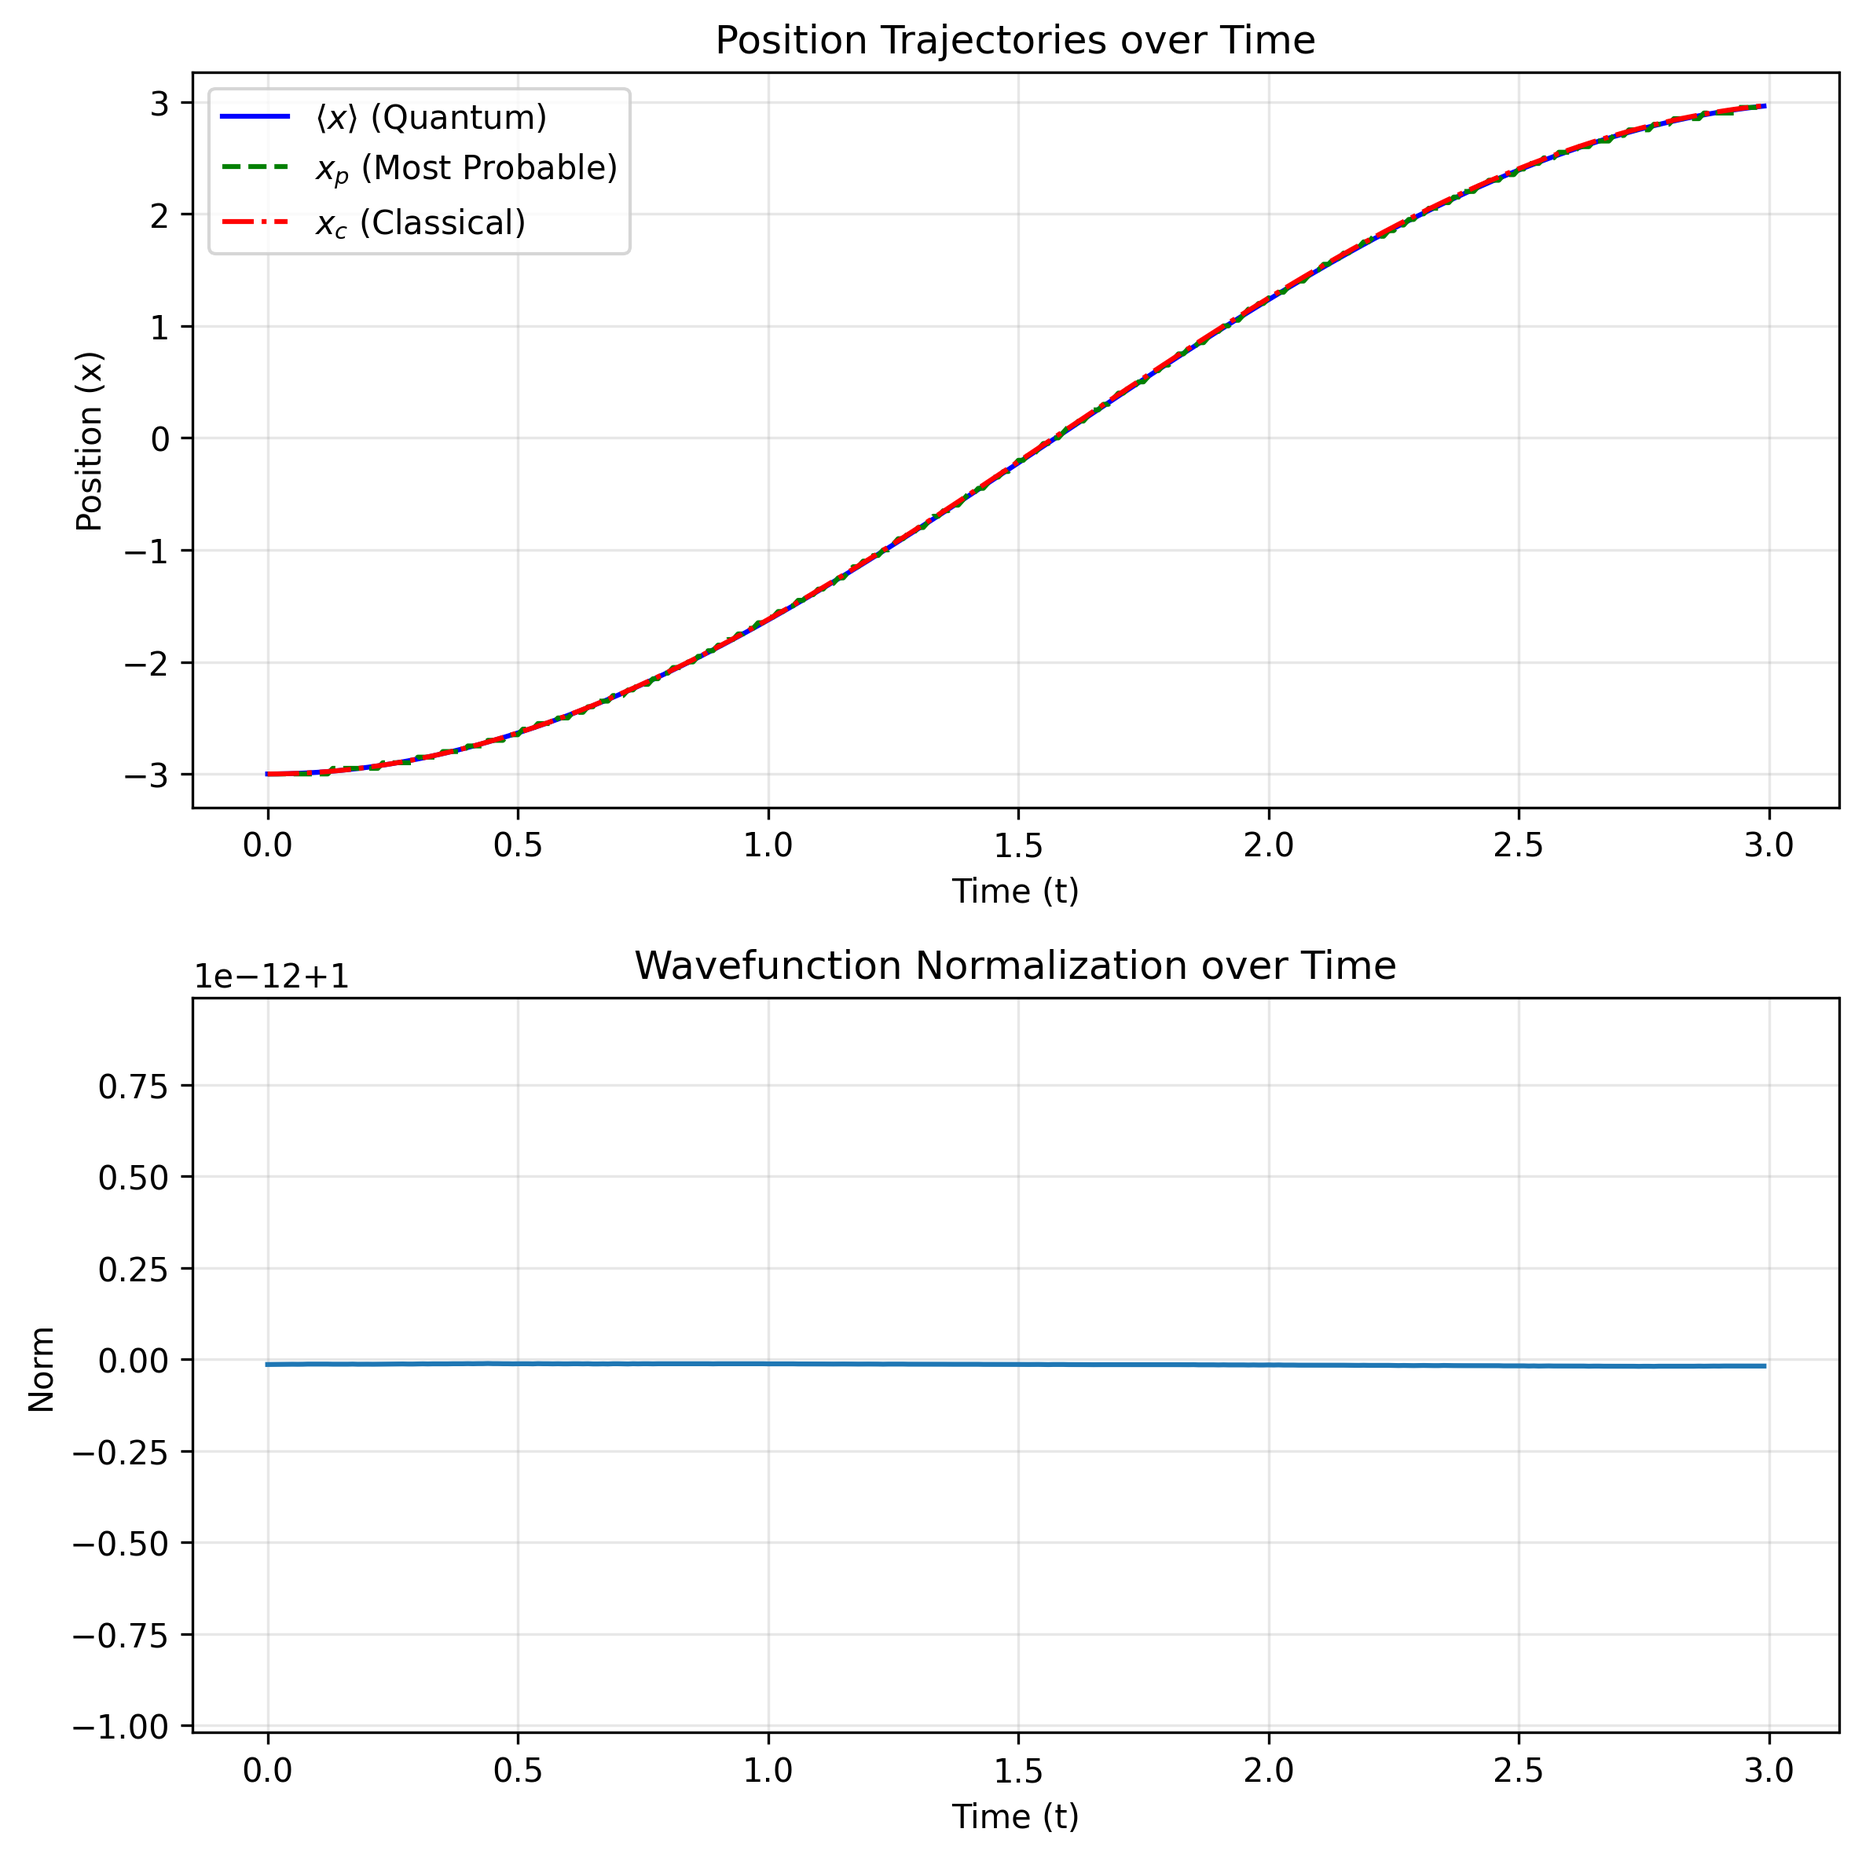
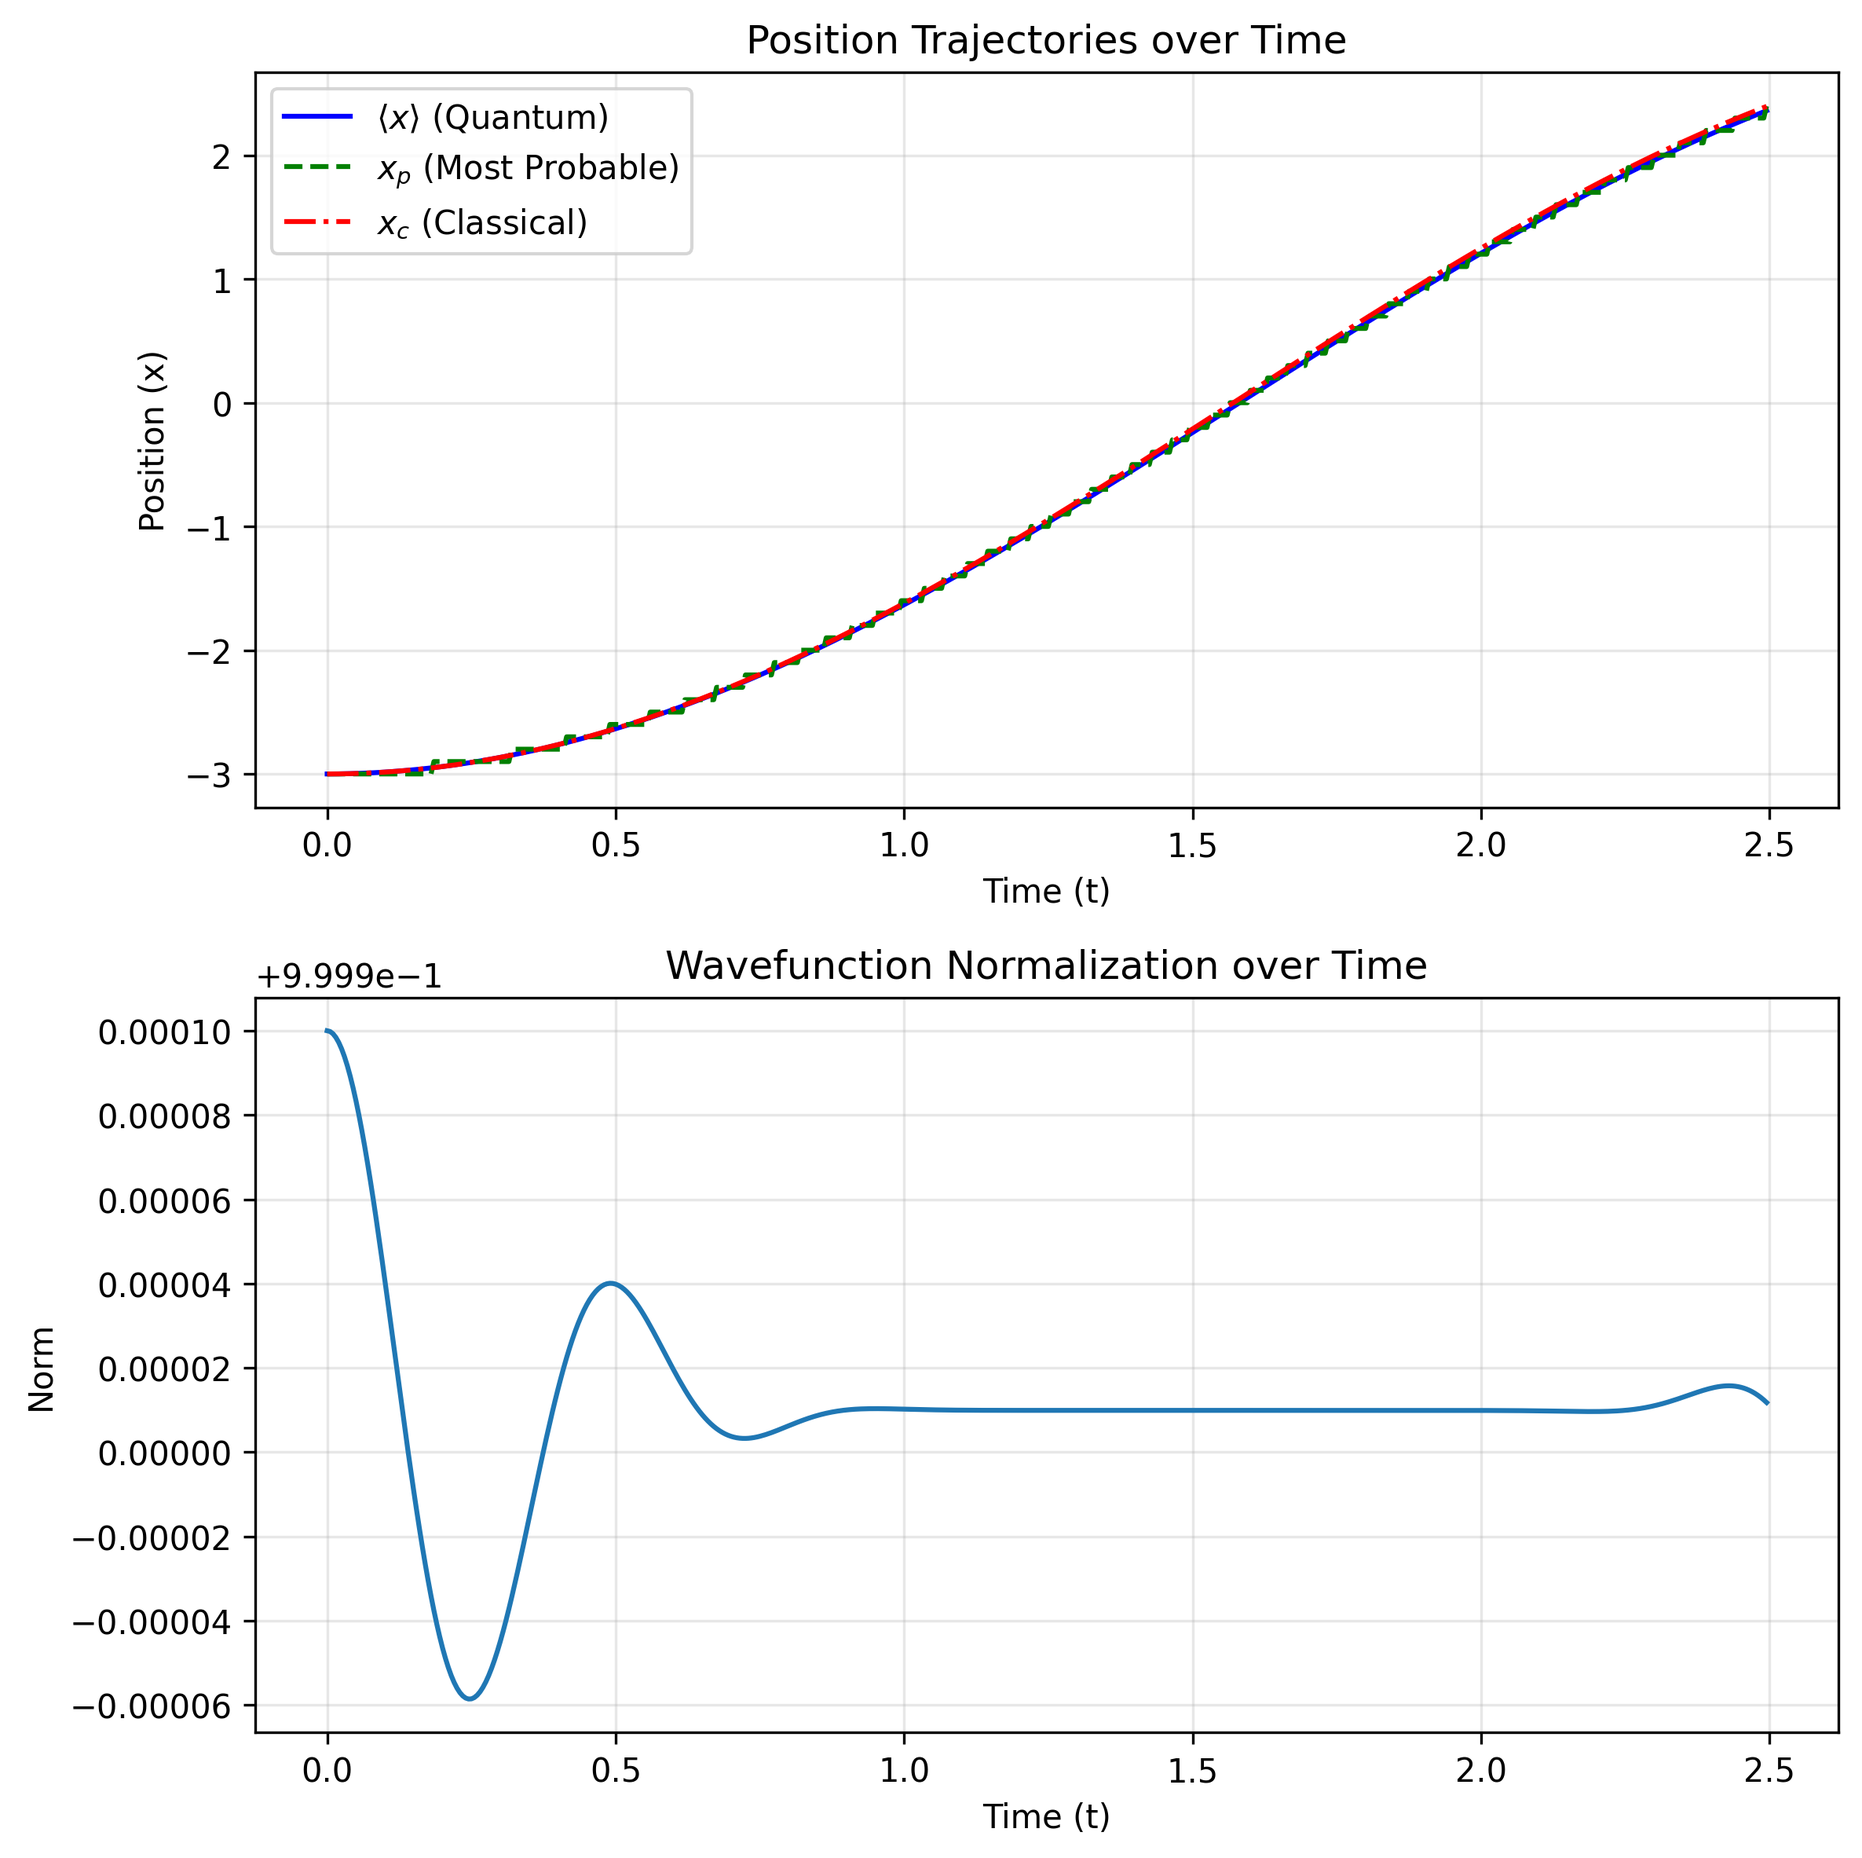
1D SDLF

diff --git a/Assignment4/CQM.py b/Assignment4/CQM.py
@@ -199,7 +199,7 @@ def phi_to_psi(k, phi, x):
     
     return psi
 
-def update_psi(psi, A_banded, B_banded, method="split-operator"):
+def update_psi(psi, A_banded, B_banded, method="split-operator", dt=0.01):
     """
     Advances the wave function by a single time step.
     Currently supports the implicit split-operator method via Crank-Nicolson.
@@ -213,12 +213,15 @@ def update_psi(psi, A_banded, B_banded, method="split-operator"):
         psi_next = solve_banded((1, 1), A_banded, RHS)
         
         return psi_next
+    elif method == "SDLF":
+        return step_sdlf(psi, A_banded, dt)
     else:
         raise ValueError(f"Method '{method}' is not implemented.")
 
 def simulate_1D(
     V_func, psi_0_func, dx, dt, x_left, x_right, frames=100, methods=["split-operator"],
-    F_func=None, x0_classical=None, p0_classical=None, show_animation=True, output_format='widget'
+    F_func=None, x0_classical=None, p0_classical=None, show_animation=True, output_format='widget',
+    animation_frame_scaling=1
     ):
     """
     Simulates the TDSE and returns a dictionary with history metrics and figures.
@@ -237,6 +240,12 @@ def simulate_1D(
                 'A': compute_matrix_A_compact(a_x),
                 'B': compute_matrix_B_compact(b_x),
                 'psi': psi_initial.copy()
+            }
+        elif method == "SDLF":
+            matrices[method] = {
+                "A":compute_F_matrix_compact(dx, V_x),
+                "B":None,
+                'psi':psi_initial.copy()
             }
 
     # --- UPDATED: Metrics Helper Function ---
@@ -257,11 +266,13 @@ def simulate_1D(
     k_init, phi_init = psi_to_phi(x, matrices[primary_method]['psi'])
     norm_x_0, norm_k_0, exp_x_0, exp_p_0, exp_H_0, x_p_0, k_p_0 = get_metrics(matrices[primary_method]['psi'], phi_init, k_init, x)
 
+    steps = frames * animation_frame_scaling
+
     # --- NEW: History and Classical Init ---
     history = {
-        't': np.zeros(frames), 'norm_x': np.zeros(frames), 'norm_k': np.zeros(frames),
-        'exp_x': np.zeros(frames), 'exp_p': np.zeros(frames), 'exp_H': np.zeros(frames),
-        'x_p': np.zeros(frames), 'k_p': np.zeros(frames), 'x_c': np.zeros(frames)
+        't': np.zeros(steps), 'norm_x': np.zeros(steps), 'norm_k': np.zeros(steps),
+        'exp_x': np.zeros(steps), 'exp_p': np.zeros(steps), 'exp_H': np.zeros(steps),
+        'x_p': np.zeros(steps), 'k_p': np.zeros(steps), 'x_c': np.zeros(steps)
     }
     
     classical_state = {
@@ -330,7 +341,9 @@ def simulate_1D(
         # 1. Advance Quantum Time Step
         if frame > 0:
             for method in methods:
-                matrices[method]['psi'] = update_psi(matrices[method]['psi'], matrices[method]['A'], matrices[method]['B'], method=method)
+                matrices[method]['psi'] = update_psi(
+                    matrices[method]['psi'], matrices[method]['A'], matrices[method]['B'], 
+                    dt=dt, method=method)
         
         psi_curr = matrices[primary_method]['psi']
         k_curr, phi_curr = psi_to_phi(x, psi_curr)
@@ -362,7 +375,8 @@ def simulate_1D(
 
     def animate(frame):
         print(f"\rProcessing frame {frame + 1}/{frames}...", end="", flush=True)
-        psi_curr, phi_curr, n_x, n_k, e_x, e_p, e_H, x_p, k_p = compute_step(frame)
+        for step in range(animation_frame_scaling-1):compute_step(frame*animation_frame_scaling + step)
+        psi_curr, phi_curr, n_x, n_k, e_x, e_p, e_H, x_p, k_p = compute_step((frame+1)*animation_frame_scaling -1)
         
         # Update plotting data
         for method in methods:
@@ -406,7 +420,8 @@ def simulate_1D(
     else:
         print("\nRunning fast simulation (no animation)...")
         for frame in range(frames):
-            compute_step(frame)
+            for step in range(animation_frame_scaling):
+                compute_step(frame*animation_frame_scaling + step)
         print("Done!")
 
     # Return Output Dictionary
@@ -456,12 +471,13 @@ def test_1D():
         V_func=harmonic_potential, 
         F_func=harmonic_force,     # <--- Passes the Force to enable classical tracking
         psi_0_func=initial_packet, 
-        dx=0.05, 
-        dt=0.01, 
+        dx=0.1, 
+        dt=0.005, 
         x_left=-10.0, 
         x_right=10.0, 
-        frames=300, 
-        methods=["split-operator"],
+        frames=500, 
+        # methods=["split-operator"],
+        methods=["SDLF","split-operator"],
         show_animation=True,
         output_format='save'       # Avoids compiling the heavy JS widget in terminal
     )
@@ -477,6 +493,54 @@ def test_1D():
     print("Saved static plot as 'static_results.png'")
 
     plt.close('all')
+
+def compute_F_matrix_compact(dx, V_x):
+    """
+    Constructs the spatial finite-difference matrix F in a 3xN compact banded format.
+    F = -H, where H is the Hamiltonian in Atomic Units.
+    """
+    N = len(V_x)
+    F = np.zeros((3, N), dtype=float)
+    
+    # Middle row (index 1): Main diagonal = -2 * (1 + V_x * dx^2)
+    F[1, :] = -2.0 * (1.0 + V_x * dx**2)
+    
+    # Top row (index 0): Upper diagonal (shifted for scipy/banded convention)
+    F[0, 1:] = 1.0
+    
+    # Bottom row (index 2): Lower diagonal (shifted for scipy/banded convention)
+    F[2, :-1] = 1.0
+    
+    # Scale entire matrix by 1 / (2 * dx^2)
+    F *= 1.0 / (2.0 * dx**2)
+    
+    return F
+
+def step_sdlf(psi, F_banded, dt):
+    """
+    Advances the wave function by one time step 'dt' using the 
+    Space Discretised Leap Frog (Position-Verlet) method.
+    Assumes `multiply_B_psi` is available in the global scope.
+    """
+    R = np.real(psi)
+    I = np.imag(psi)
+    
+    # Step 1: Advance Imaginary part by half a step
+    # dI/dt = F * R
+    F_R = multiply_B_psi(F_banded, R)
+    I_half = I + (dt / 2.0) * F_R
+    
+    # Step 2: Advance Real part by a full step using the half-step Imaginary part
+    # dR/dt = -F * I
+    F_I_half = multiply_B_psi(F_banded, I_half)
+    R_next = R - dt * F_I_half
+    
+    # Step 3: Advance Imaginary part by the remaining half step using the new Real part
+    F_R_next = multiply_B_psi(F_banded, R_next)
+    I_next = I_half + (dt / 2.0) * F_R_next
+    
+    # Combine back into complex wave function
+    return R_next + 1j * I_next
 
 
 #####################################################################################
@@ -1060,4 +1124,4 @@ def test_2D():
     fig_static.savefig("static_results_2d.png", dpi=300, bbox_inches='tight')
     print("Saved static plot as 'static_results_2d.png'")
 
-if __name__ == "__main__": test_2D()
+if __name__ == "__main__": test_1D()

diff --git a/Assignment4/Notes.md b/Assignment4/Notes.md
@@ -456,3 +456,203 @@ $$
 Using this, tri-diagonal matrices $A,B$ will be created, allowing us to do the implicit split-operator step by solving $A\psi_{\tilde t} = B \psi_0$ in $O(N)$ operations using `scipy`.
 
 For further accuracy, we can even go to a penta-diagonal matrix, using 5-point evaluation of the $\frac{\partial^2}{\partial x^2}$ operator. 
+
+## Leap-Frog like finite difference method
+
+The ATDSE is :
+
+$$
+- \frac{1}{2}\frac{\partial^2}{\partial \tilde  x^2} \psi + \tilde  V \psi= \tilde H \psi = i\frac{\partial }{\partial \tilde t}\psi
+$$
+
+Since the $\tilde H$ operator can be decomposed lineraly and maps real numbers to real numbers, we can write (after dropping the tilde) :
+
+$$
+\psi = R + iI \implies \\
+H R + i H I= i \frac{\partial }{\partial t} R - \frac{\partial }{\partial t} I \implies \\
+\frac{\partial}{\partial t} I  = H R \quad \text{and} \quad \frac{\partial}{\partial t} R = - H I
+$$
+
+On top of this, we have
+
+$$
+\int (I^2 + R^2) dx = 1
+$$
+
+When descritised, this equation becomes
+
+$$
+\sum_x (I_x^2 + R_x^2) = 1
+$$
+
+Similarly, the evolution equations are discretised in space as :
+
+$$
+\frac{\partial}{\partial t} I[x] = V[x]R[x] - \frac{1}{2}\frac{1}{\Delta x^2} (R[x+\Delta x]-2R[x]+R[x-\Delta x]) \\
+\frac{\partial}{\partial t} R[x] = -V[x]I[x] + \frac{1}{2}\frac{1}{\Delta x^2} (I[x+\Delta x]-2I[x]+I[x-\Delta x])
+$$
+
+We can rewrite the first equation as :
+
+$$
+\frac{\partial}{\partial t} I[x] = - \frac{1}{2\Delta x^2} 
+\begin{bmatrix}
+1 & -2(1 + V[x]\Delta x^2) & 1
+\end{bmatrix}
+\begin{bmatrix}
+R[x+\Delta x] \\
+R[x] \\
+R[x-\Delta x]
+\end{bmatrix}
+$$
+
+Define $f[x] = -2(1+V[x]\Delta x^2)$ and then the tri-diagonal matrix
+
+$$
+F = \frac{1}{2\Delta x^2}\begin{bmatrix}
+f[x_l] & 1 & 0 & 0 & \dots & 0 & 0  \\
+1 & f[x_l + \Delta x] & 1 & 0 & \dots & 0 & 0 \\
+0 & 1 & f[x_l + 2\Delta x] & 1 & \dots & 0 & 0 \\
+\vdots & \vdots & \vdots & \vdots & & \vdots & \vdots \\
+0 & 0 & 0  & 0 & \dots & 1 & f[x_r]
+\end{bmatrix}
+$$
+
+Now, vectorising this, with $\vec R = [R_x]_x$ and $\vec I = [I_x]_x$, we can write :
+
+$$
+\frac{\partial}{\partial t}\vec R = F \vec I\\
+\frac{\partial}{\partial t}\vec I = - F \vec R \\
+||\vec R||^2 + ||\vec I||^2 = 1
+$$
+
+This is exactly how the hamiltonian systems we have seen evolve. The third equation is similar to the net energy being constant in a classical mechanics system.
+
+So, just like before, we can use the position verlet LF integrator like so (for small step of size $t$):
+
+$$
+\vec R_{t/2} := \vec R_0 + \frac{t}{2} F \vec I_0 \\
+\vec I_{t} := \vec I_0 - t F \vec R_{t/2} \\
+\vec R_t := \vec R_{t/2} + \frac{t}{2} F\vec R_{t/2} 
+$$
+
+Effectively what is happening is that
+
+$$
+\begin{bmatrix}
+\vec R_{t/2} \\
+\vec I_{t/2}
+\end{bmatrix} = 
+\begin{bmatrix}
+\textbf{I}_N & \frac{t}{2} \textbf{F}\\
+\textbf{0}_N & \textbf{I}_N
+\end{bmatrix}
+\begin{bmatrix}
+\vec R_{0} \\
+\vec I_{0}
+\end{bmatrix} \\
+
+\begin{bmatrix}
+\vec R_{t} \\
+\vec I_{t}
+\end{bmatrix} = 
+\begin{bmatrix}
+\textbf{I}_N & \textbf{0}_N \\ 
+- \frac{t}{2} \textbf{F}  & \textbf{I}_N
+\end{bmatrix}
+\begin{bmatrix}
+\vec R_{t/2} \\
+\vec I_{t/2}
+\end{bmatrix}
+$$
+
+It's easy to show that both the matrices have a determinant of 1. Thus, the L2 norm is exactly preserved. 
+
+But that isn't enough for stability. Instead, for von Neuman or BIBO stability, we require :
+
+$$
+t < \Lambda \Delta x^2
+$$
+
+Here, $\Lambda$ is a quantity dependent on $V(x)$. For free fall, i.e. $V(x)=0$, we have $\Lambda =1$ . For most other potentials we will encounter, we will have $\Lambda \ge 1/2$ . 
+
+Thus, as long as $t \ll \frac{1}{2}\Delta x^2$, the simulation will give stable outputs. 
+
+Obviously, we won't do the iteration for just the $[0,t]$ interval in time, but rather till $T = t\times N_f$ where $N_f$ is number of frames. 
+
+The time complexity using either band-matrix multiplication of vector dot products after slicing and padding is $O(NN_f)$.
+If $N_f \gg N$, we can optimise by doing fast matrix exponentiation of the matrix
+
+$$
+M := 
+\begin{bmatrix}
+\textbf{I}_N & \textbf{0}_N \\ 
+- \frac{t}{2} \textbf{F}  & \textbf{I}_N
+\end{bmatrix}
+\begin{bmatrix}
+\textbf{I}_N & \frac{t}{2} \textbf{F}\\
+\textbf{0}_N & \textbf{I}_N
+\end{bmatrix}
+$$
+
+to get $M^{N_f}$ in $O(N^3 \log N_f)$ time. 
+For example, if we have $(x_l,x_r) = -10,10$ and $\Delta x = 0.1$, giving us $N = 201$, but have $t = 0.001 < \frac{1}{2}\Delta x^2$ and we evolve till $T_1=1$, giving us $N_f = 1000$. It may seem that $N^3 \gg N N_f$ and so this is a waste of time, but pre-computing $M^{N_f}$ and repeatedly using it allows us to speed up the simulation by computing effect of $N_f$ iterations via just $O(N^2)$ operations, rather than $O(NN_f)$. So, if the simulation has to be done for a longer time, say $T=1000$, we can just use the matrix for $T=10$ and use that to do 100 of 160000-operation matrix-vector multiplications, rather than doing $2\times 3 \times 201000000$ operations. 
+
+This also allows us to make the $t$ value really small. 
+
+Eventually, there will come a point when
+
+$$
+M^{T/t} = (I+ \frac{t}{T}(\frac{M-\textbf{I}_n}{t/T}))^{T/t} \approx \exp(\frac{T}{t}(M-\textbf{I}_n))
+$$
+
+This quantity can be computed using `scipy.linalg.expm` in $O(N^3)$ and is basically the space discretised analogue of the $e^{-iHt}$ operator. Notice I said "space discretised". In the time dimension, it's effectively the solution to the equation
+
+$$
+\frac{\partial}{\partial t} \begin{bmatrix}
+\vec R \\
+\vec I
+\end{bmatrix} = \begin{bmatrix}
+0 & F \\
+-F & 0
+\end{bmatrix} \begin{bmatrix}
+\vec R \\
+\vec I
+\end{bmatrix}
+$$
+
+i.e.
+
+$$
+\begin{bmatrix}
+\vec R \\
+\vec I
+\end{bmatrix}(T) = \exp(T G) (\begin{bmatrix}
+\vec R \\
+\vec I
+\end{bmatrix}(0)) \\
+\text{where}\quad  G = \begin{bmatrix}
+0 & F \\
+-F & 0
+\end{bmatrix}
+$$
+
+It can be shown that as $t\to 0$, the $\frac{T}{t}(M-I)$ matrix become $G$.
+This then raises the obvious question : why bother with leap-frog at all where we can get the time-analytical solution for the space discretised scenario directly ? 
+
+Since this has become a very different method from space-discretised leap-frog (SDLP) after all the optimisations and analysis, I will give it a new name: the "Real-Imaginary Split Evolution" (RISE) method. 
+
+The algorithm for RISE given $\Delta x, \Delta t$ where $\Delta t$ is large, and $\psi_0, V$ is :
+
+* Compute $f[x]$ from $V[x],\Delta x, \Delta t$
+* Compute $F$ and $G$ matrices
+* Compute the transition matrix $P = \exp(G\Delta t)$
+* Initialise $R = \Re (\psi_0)$ and $I = \Im(\psi_0)$
+* for each frame:
+    * Compute any quantities from $\psi = R + iI$ that are to be tracked (such as $\braket{x},\braket{p},\braket{E}, \phi$, etc.)
+    * Update $R,I$ as $[R\;I]^T := P[R\;I]^T$
+
+Although this method gives analytically correct time evolution, the $O(N^3)$ bottleneck means that the spatial resolution is poor for 2D and 3D cases, and thus the solution will also be in-accurate.
+Thus, this method isn't used professionally. 
+
+But, for the toy examples we have, I can certainly use it to verify correctness. 
